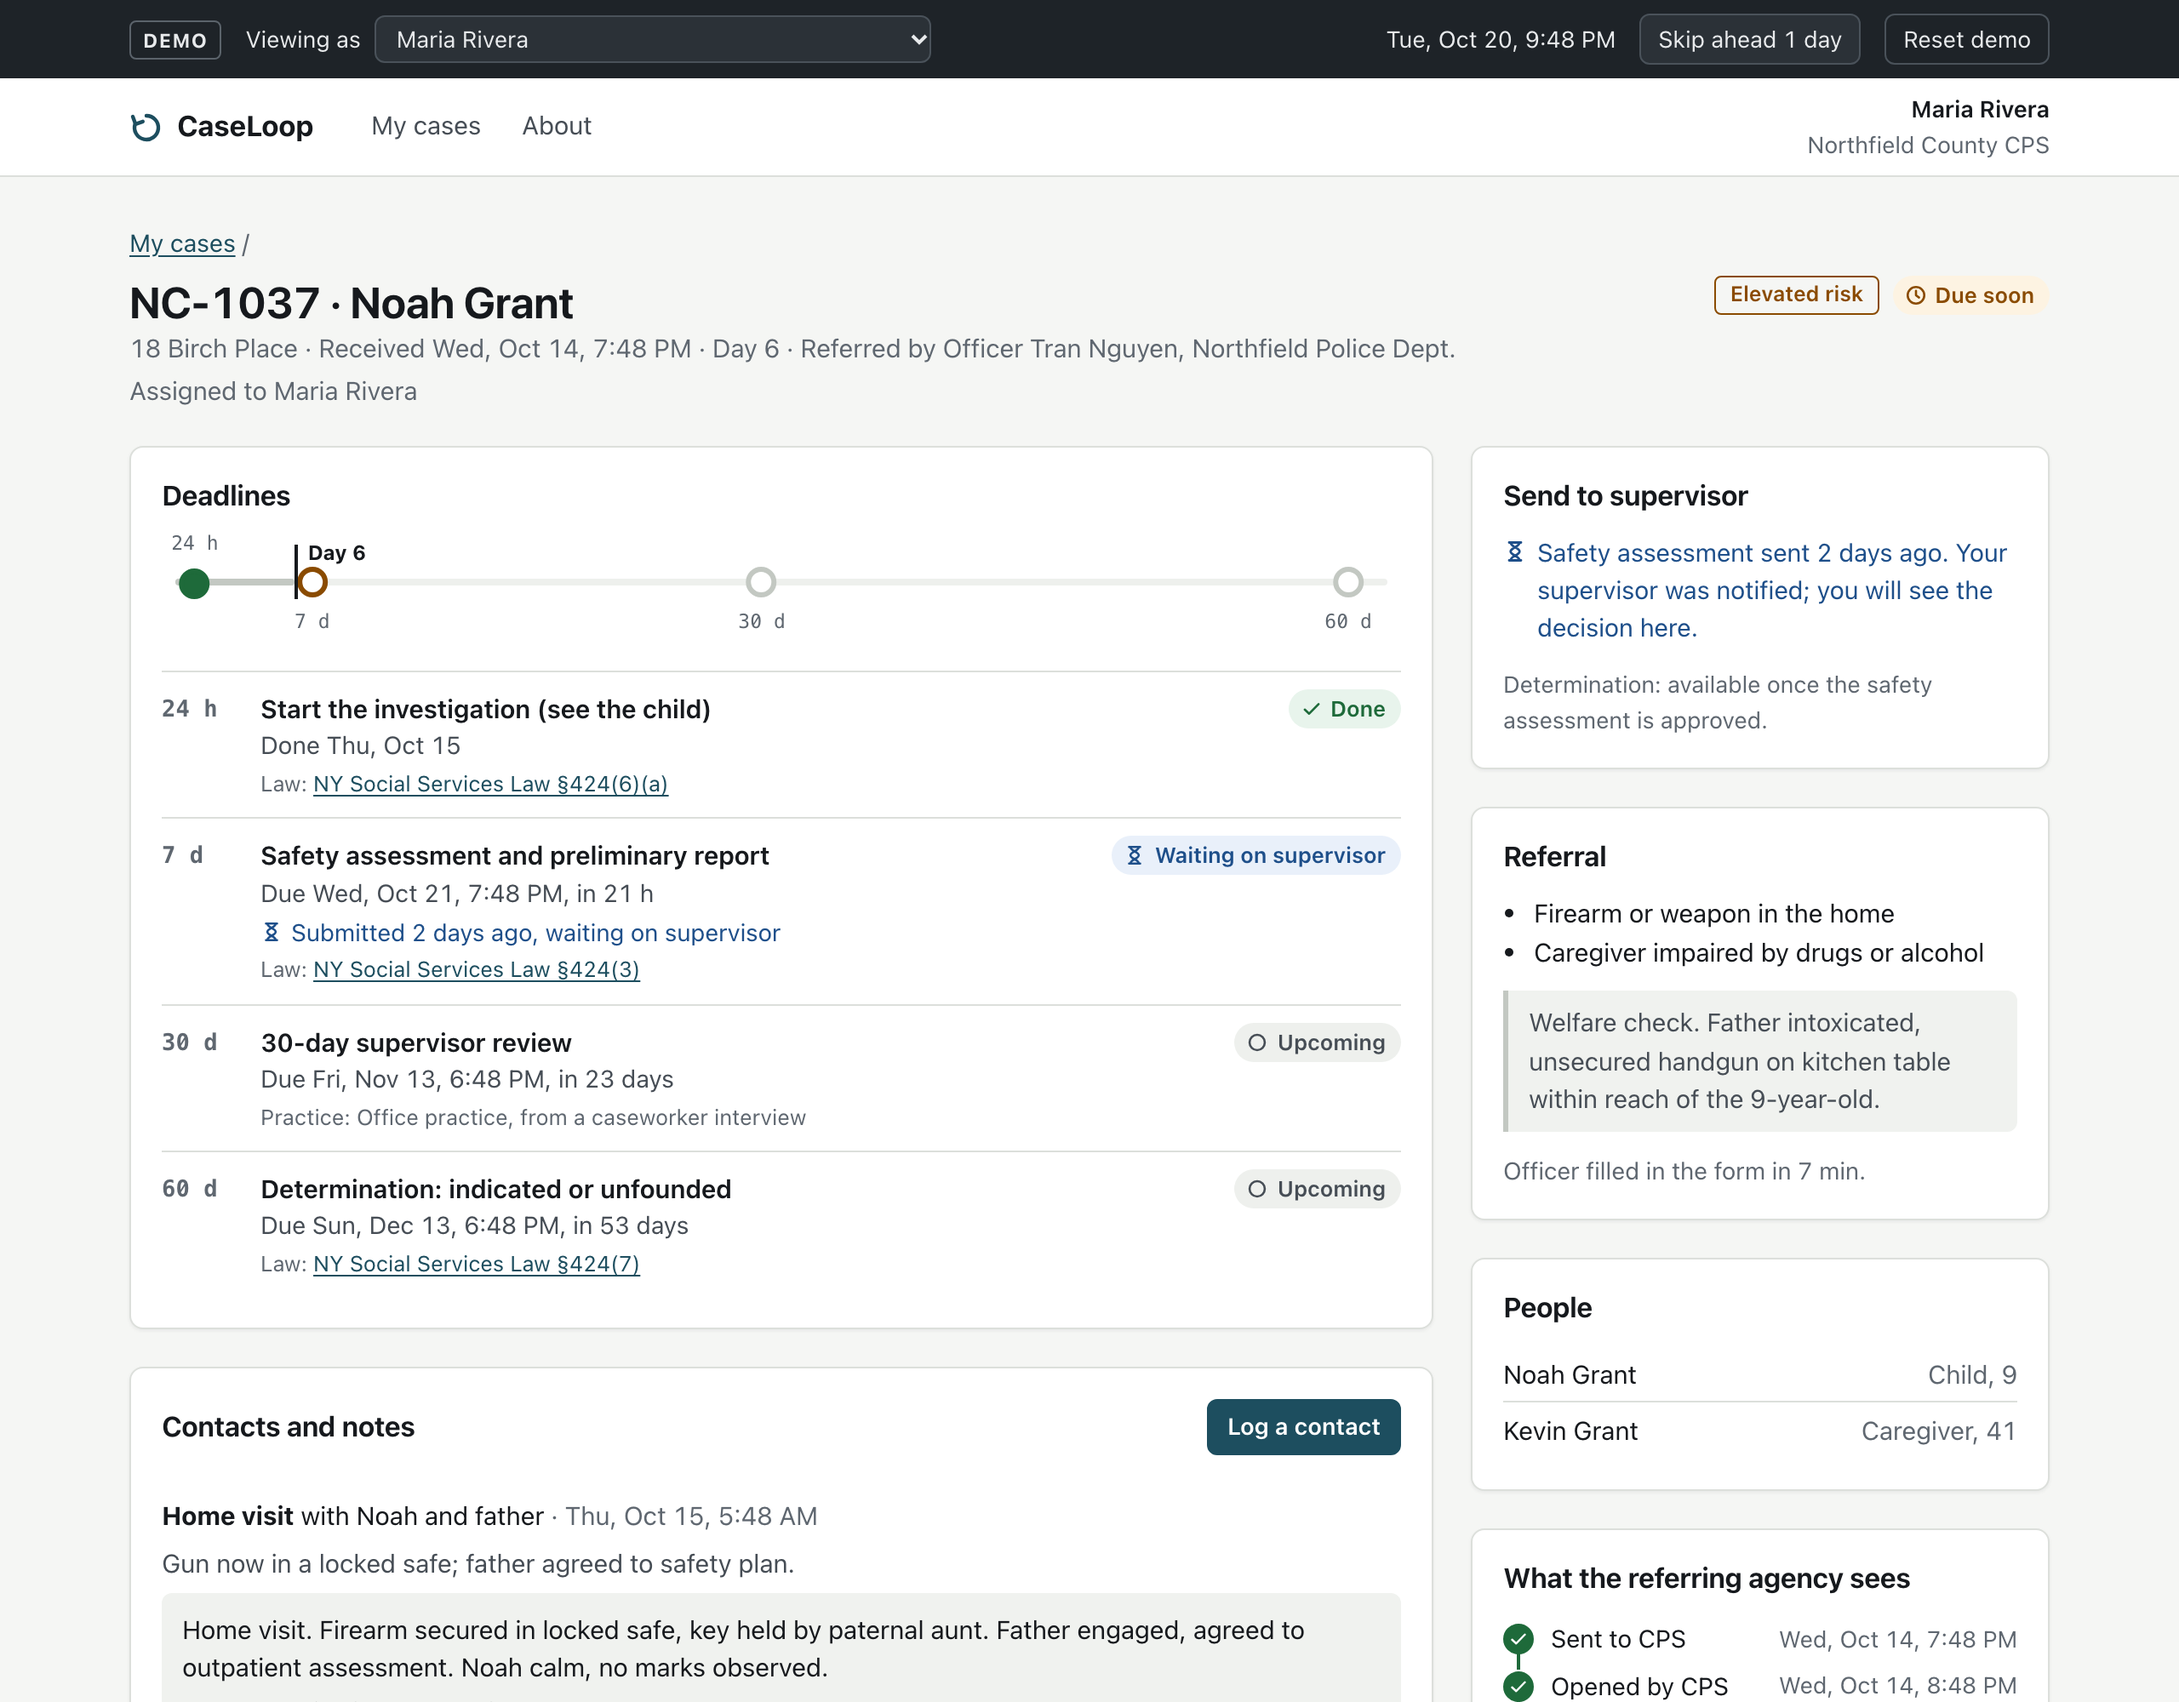
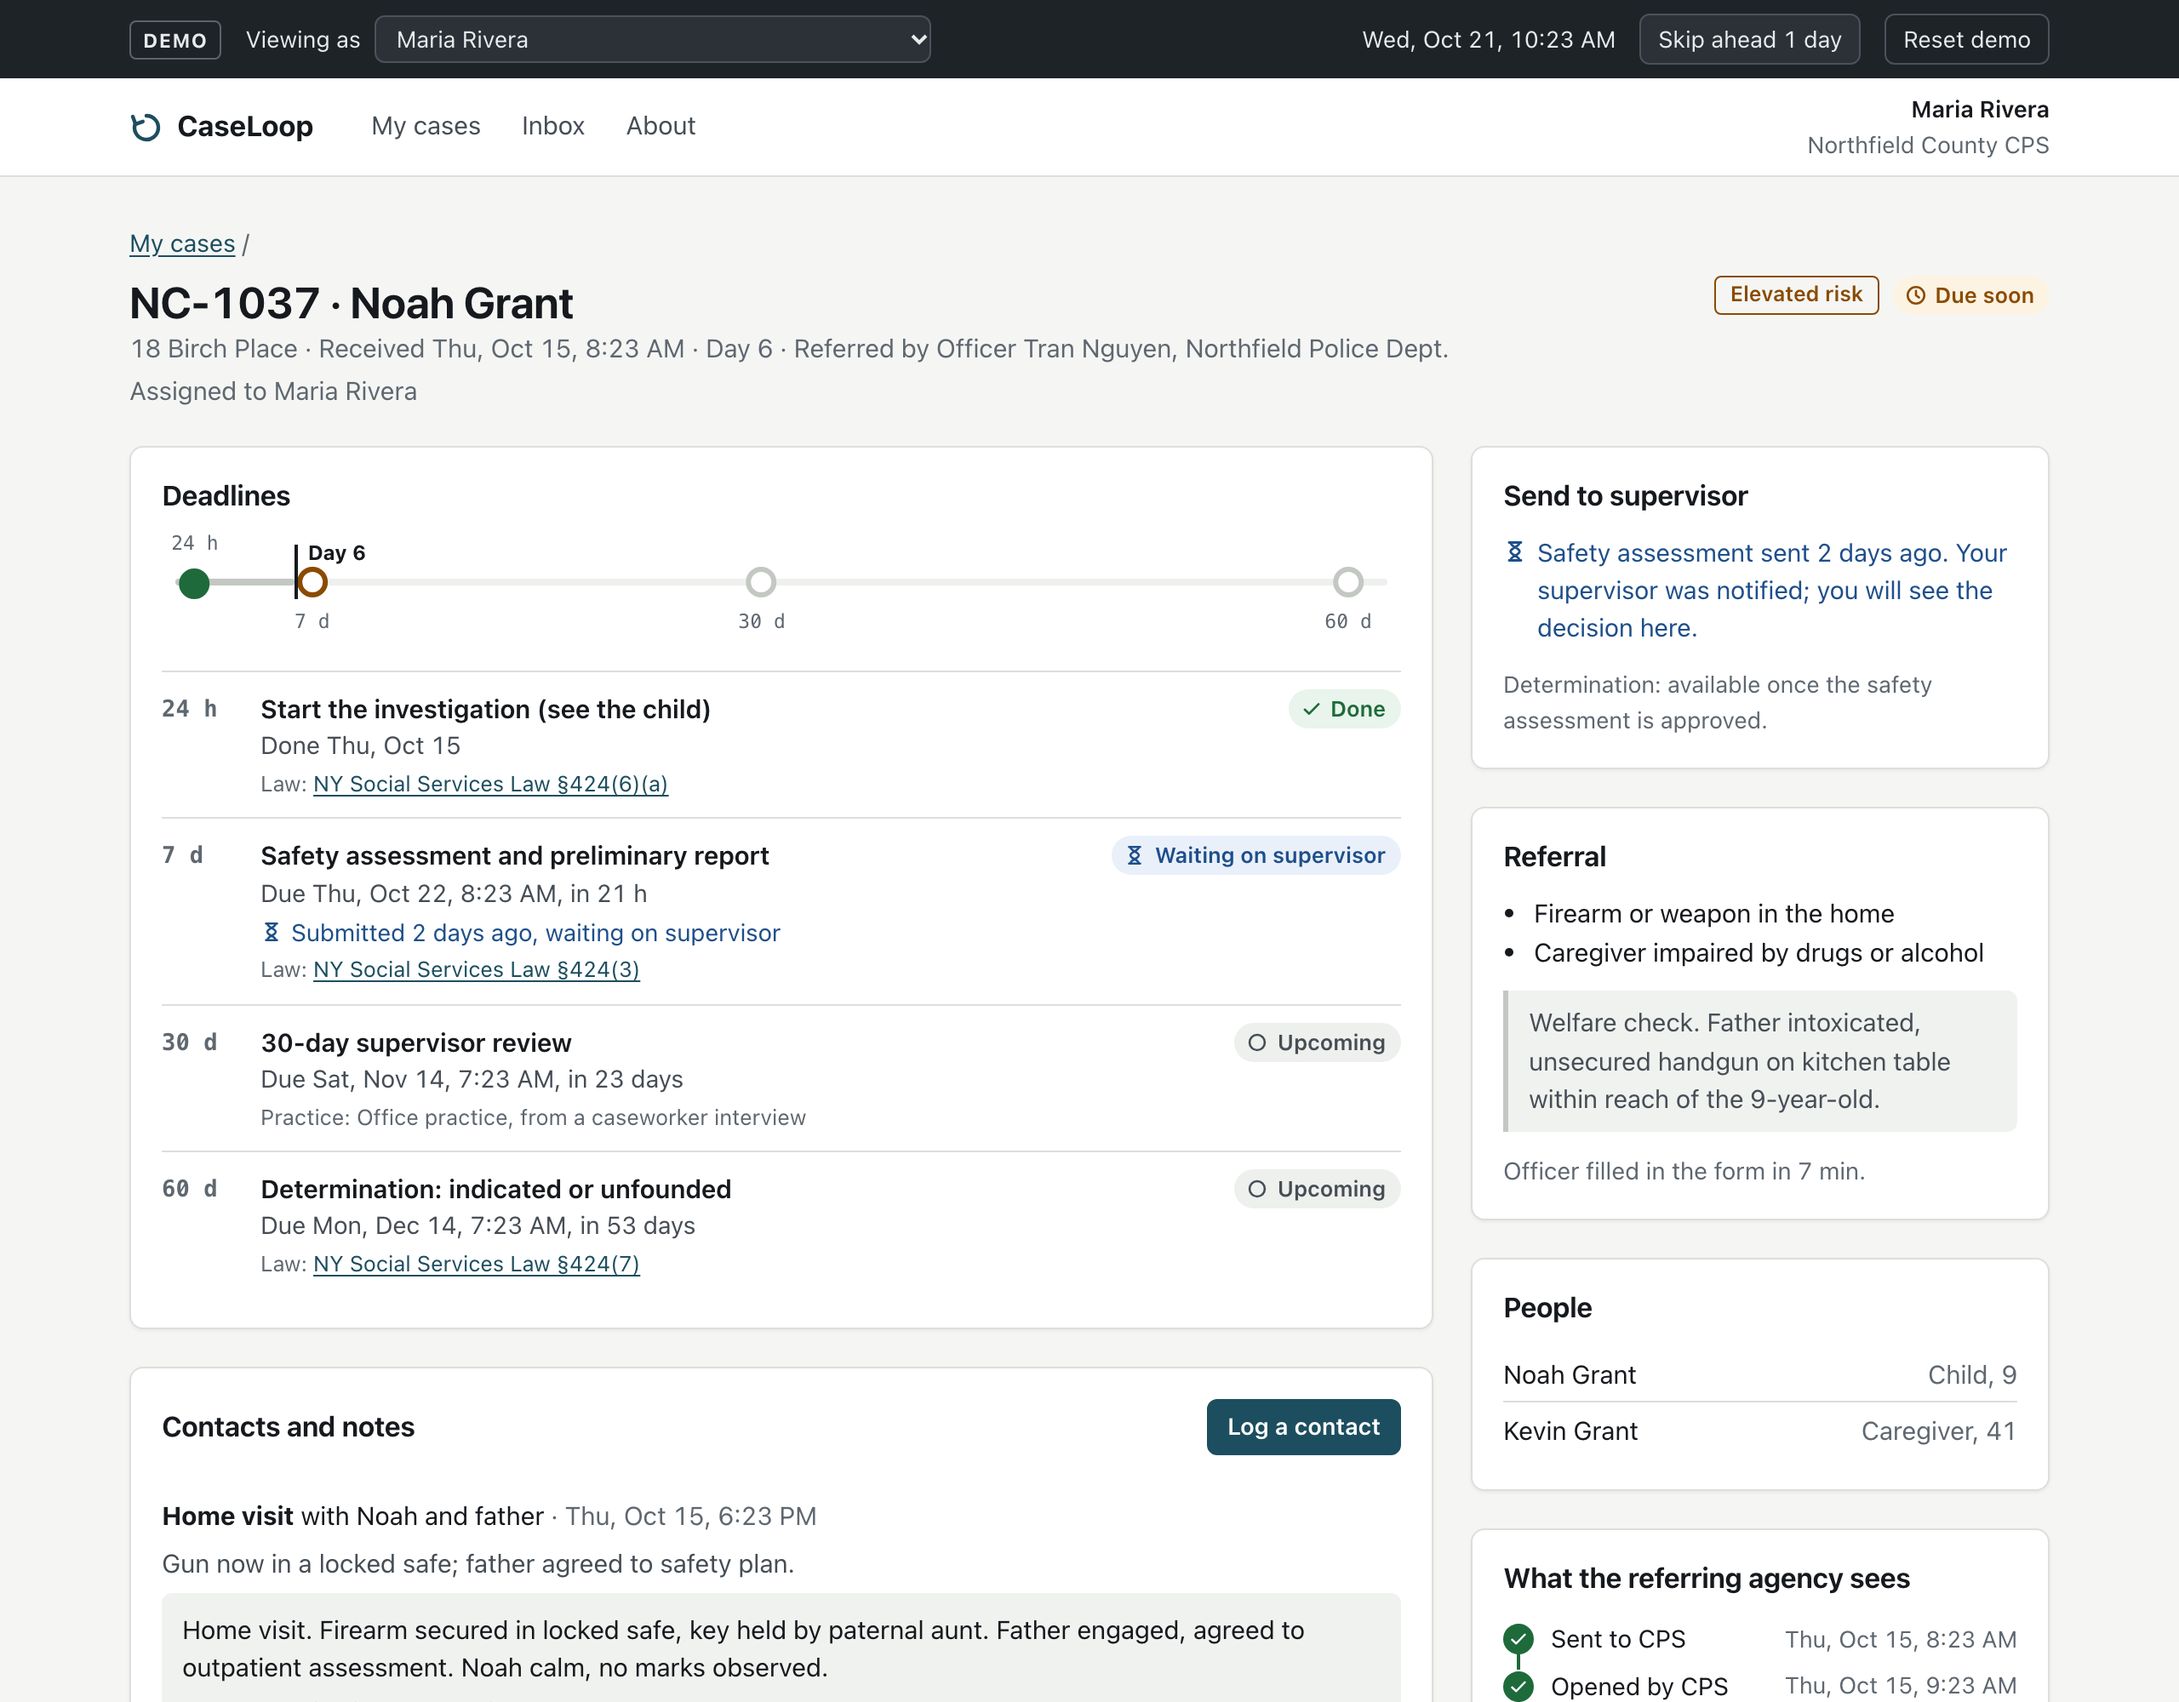
Document inbox and results; refresh screenshots

diff --git a/docs/TEST-PLAN.md b/docs/TEST-PLAN.md
@@ -9,6 +9,7 @@ Three kinds of evidence, from cheapest to most convincing: the rules are right (
 | `clocks.test.ts` | Windows match the statute (24 h, 7 d, 60 d) and cite §424(6)(a), §424(3), §424(7); the 30-day review is labelled practice; clocks count from intake; upcoming → due soon → overdue at the right moments (exactly on time is not late); a phone call doesn't start the investigation, a visit does; late completion is *done late*; the clock keeps running while waiting on a supervisor; a returned submission isn't done; notes are owed 5 days after a contact. |
 | `matching.test.ts` | Jaro-Winkler matches Winkler's published reference values; address normalization; birth-date typo detection; **labelled pairs**: every “same person” pair is flagged (spelling variant, moved house, day/month swapped, last-name typo) and no “different person” pair is (sibling, similar name, **twins**). Every match explains itself. |
 | `policy.test.ts` | A caseworker sees only their own cases; a supervisor sees all; an officer sees status only, only for their agency. **The officer's view contains no notes, contacts, risk, history, staff names or outcome**, checked by serializing every view. Assigning from the queue counts as opening. Only the assigned worker can write; nobody writes to a closed case. |
+| `results.test.ts` | Each deadline counted once as on time, late, missed or not yet due; approval waits read from the log (a return and resend are two waits); notes still inside their window are left out of the rate. Inbox: a caseworker hears about returns with the reason; a supervisor hears about new reports (hotline included) and submissions; an officer hears only about their own referrals and nothing that names staff or the outcome; nobody is told about their own action or about anything that hasn't happened yet. |
 | `priority.test.ts` | Every seeded event passes the same schema used to load saved data; each demo case lands in the tier its story says; ordering is missed deadline > risk > next due; reasons are specific (“waiting on supervisor for 2 days”, “overdue by 28 days”). |
 
 ## 2. Flows in a real browser (Playwright + axe, `npm run test:e2e`)
@@ -18,9 +19,11 @@ Runs against the production build, the same files that get deployed.
 - **The whole loop:** an officer fills in and sends a referral → the supervisor sees it as *not opened yet* and assigns it → the caseworker finds it, logs a home visit, and the 24-hour clock shows *Done* → the officer sees *waiting for: safety assessment done*, with no caseworker name or visit details.
 - **Approval reaches the worker:** a supervisor approves from the overview; the worker sees it approved, and the trail records who approved it.
 - **Privacy:** an officer can't see notes or staff names on their own referral, can't open a hotline case at all, and their status check appears in the access log.
+- **Inbox:** a supervisor returns work; the caseworker's inbox shows it as new with the reason, and opening the inbox clears the badge.
+- **Results:** the results page and its table view show the missed safety assessments.
 - **Validation:** an empty referral shows an error summary and marks invalid fields for screen readers.
 - **Time:** *Skip ahead 1 day* moves a case from *due soon* to *overdue*.
-- **Accessibility:** nine pages across all three roles pass axe with WCAG 2.1 A/AA rules.
+- **Accessibility:** twelve pages across all three roles pass axe with WCAG 2.1 A/AA rules.
 - **Phone:** no sideways scrolling on the landing page, the case list or a case page at Pixel 7 size.
 
 ## 3. A caseworker walkthrough (human, ~15 minutes)

diff --git a/README.md b/README.md
@@ -20,6 +20,8 @@ My cousin is a CPS caseworker in New York. I asked him how a case actually moves
 | Attaching a photo takes four steps in two places. | Photos attach to the contact in the same step, from the camera. |
 | Workers keep private lists of due dates. | The list is the system. |
 | The referring officer never hears back. | The officer sees *opened, assigned, child seen, assessed, closed* with times, and never the notes, staff names or outcome. |
+| Nobody is told anything; people have to go look. | Each person has an inbox: assigned to you, sent to you, approved, returned (with the reason), deadline coming, referral not opened. Every notice is derived from the case history and the clock, so it can't fall out of sync. |
+| Nobody can say whether things are getting better. | A results page measures report-to-visit time, deadlines met, approval waits and note lag from the same history, with no extra data entry. |
 
 ## A three-minute tour
 
@@ -27,11 +29,11 @@ My cousin is a CPS caseworker in New York. I asked him how a case actually moves
 2. **Lena Brooks (supervisor)**: assign the new report; approve the safety assessment that has waited two days.
 3. **Maria Rivera (caseworker)**: her cases are in order of what's late. Open the new one and log a home visit.
 4. **Officer Nguyen** again: the loop now shows opened, assigned, child seen.
-5. **Skip ahead 1 day** in the demo bar and watch the deadlines move. As Lena, open the **Access log**.
+5. **Skip ahead 1 day** in the demo bar and watch the deadlines move and the **Inbox** fill up. As Lena, open **Results** and the **Access log**.
 
-| Supervisor | Officer | Phone |
-|---|---|---|
-| ![Unit overview](docs/screenshots/supervisor.png) | ![Officer's referrals](docs/screenshots/officer.png) | ![Caseworker list on a phone](docs/screenshots/phone.png) |
+| Supervisor | Results | Officer | Phone |
+|---|---|---|---|
+| ![Unit overview](docs/screenshots/supervisor.png) | ![Results](docs/screenshots/results.png) | ![Officer's referrals](docs/screenshots/officer.png) | ![Caseworker list on a phone](docs/screenshots/phone.png) |
 
 ## How it's built
 
@@ -44,7 +46,9 @@ My cousin is a CPS caseworker in New York. I asked him how a case actually moves
         ├── computeClocks()        src/domain/clocks.ts      deadlines from NY SSL §424, each with its source
         ├── rankCases()            src/domain/priority.ts    missed deadline > risk > next due, with reasons
         ├── findMatches()          src/domain/matching.ts    Jaro-Winkler + birth-date + address rules, explained
-        └── accessTo() / agencyView()  src/domain/policy.ts  who sees what; the officer's view is built field by field
+        ├── accessTo() / agencyView()  src/domain/policy.ts  who sees what; the officer's view is built field by field
+        ├── noticesFor()           src/domain/notifications.ts  each person's inbox, derived from events + clock
+        └── results()              src/domain/metrics.ts     report-to-visit, deadlines met, approval waits, note lag
         │
         ▼
  React UI                          src/ui/*                  role-specific screens; every case view is access-logged

diff --git a/docs/DESIGN.md b/docs/DESIGN.md
@@ -61,7 +61,13 @@ The worker sees both records side by side with the reasons, and confirms or reje
 - Child names show as first name + initial in lists; full names only inside the case.
 - The demo stores nothing outside the browser; photos stay in memory and are gone on reload.
 
-### 6. Accessibility and the field
+### 6. Notifications are derived, not stored
+A notice exists because an event happened (assigned, submitted, approved, returned, a step of the loop) or a time passed (a deadline coming due, a referral unopened after 2 hours). `noticesFor(person, cases, now)` computes them; only *when you last opened your inbox* is stored. So a notice can never disagree with the case, there's no “mark as sent” bug, and adding a rule is one function. People are never notified of their own actions. In production the same function would decide what to push by SMS or email.
+
+### 7. Results come from the same history
+`results()` computes median report-to-visit time, the share of deadlines met on time (of those that have come due), supervisor approval waits (read from the log, so a return and resend count as two waits) and note lag. No one enters data to produce them. The chart colors were checked with a color-blindness validator, and *missed* also has stripes, so it never depends on telling red from amber.
+
+### 8. Accessibility and the field
 Status is never shown by color alone (every pill has a word and an icon). All pages pass axe WCAG 2.1 AA in CI. The contact log is designed for a phone in a doorway: four fields, camera capture, under a minute.
 
 ## Data model (abridged)
